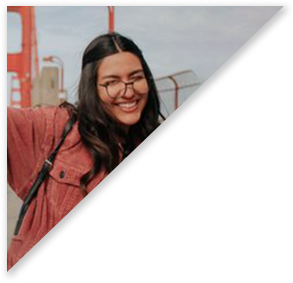
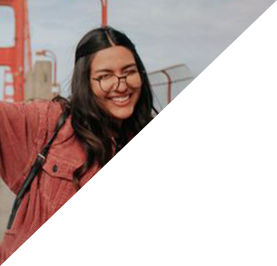
social proof format

Changed region(s): [[0.0, 0.0, 1.0, 1.0], [0.6354, 0.2406, 0.6931, 0.2707], [0.2888, 0.391, 0.3177, 0.4211]]

diff --git a/index.html b/index.html
@@ -82,10 +82,12 @@
 
         <div class="person-2">
           <div class="quote-image">
-            <img src="" alt="Benjamin R.">
+            <img src="images/pers2Triangle.png" alt="Benjamin R.">
           </div>
-          <h4>Benjamin R.</h4>
-          <p>“Really nice experience here at Kindred Coffee. It’s bright and airy inside with quick and friendly staff. Even the customers were friendly. Friendly vibes throughout.”</p>
+          <div class="quote-text">
+            <h4>Benjamin R.</h4>
+            <p>“Really nice experience here at Kindred Coffee. It’s bright and airy inside with quick and friendly staff. Even the customers were friendly. Friendly vibes throughout.”</p>
+          </div>
         </div>
       </section>
 

diff --git a/css/style.css b/css/style.css
@@ -163,7 +163,6 @@ text-transform: uppercase;
 .person-1, .person-2 {
   width: 100%;
   background-color: #fdddc0;
-
 }
 .person-2 {
   display: none;
@@ -171,10 +170,20 @@ text-transform: uppercase;
 .quote-image {
     padding: 0;
 }
-.person-1 img {
+.person-1 img, .person-2 img {
   width: 75%;
   float: left;
-  shape-outside: polygon(0% 0%, 115% 0%, 0% 115%);
+  shape-outside: polygon(0% 0%, 110% 0%, 0% 110%);
 }
 .quote-text {
-padding: 10%;}
+padding: 6%;
+padding-top: 200px;
+}
+.quote-text p, .quote-text h4 {
+  color: #707070;
+}
+.quote-text p {
+    font-size: 1.5em;
+}
+
+/*Contact Styles*/
